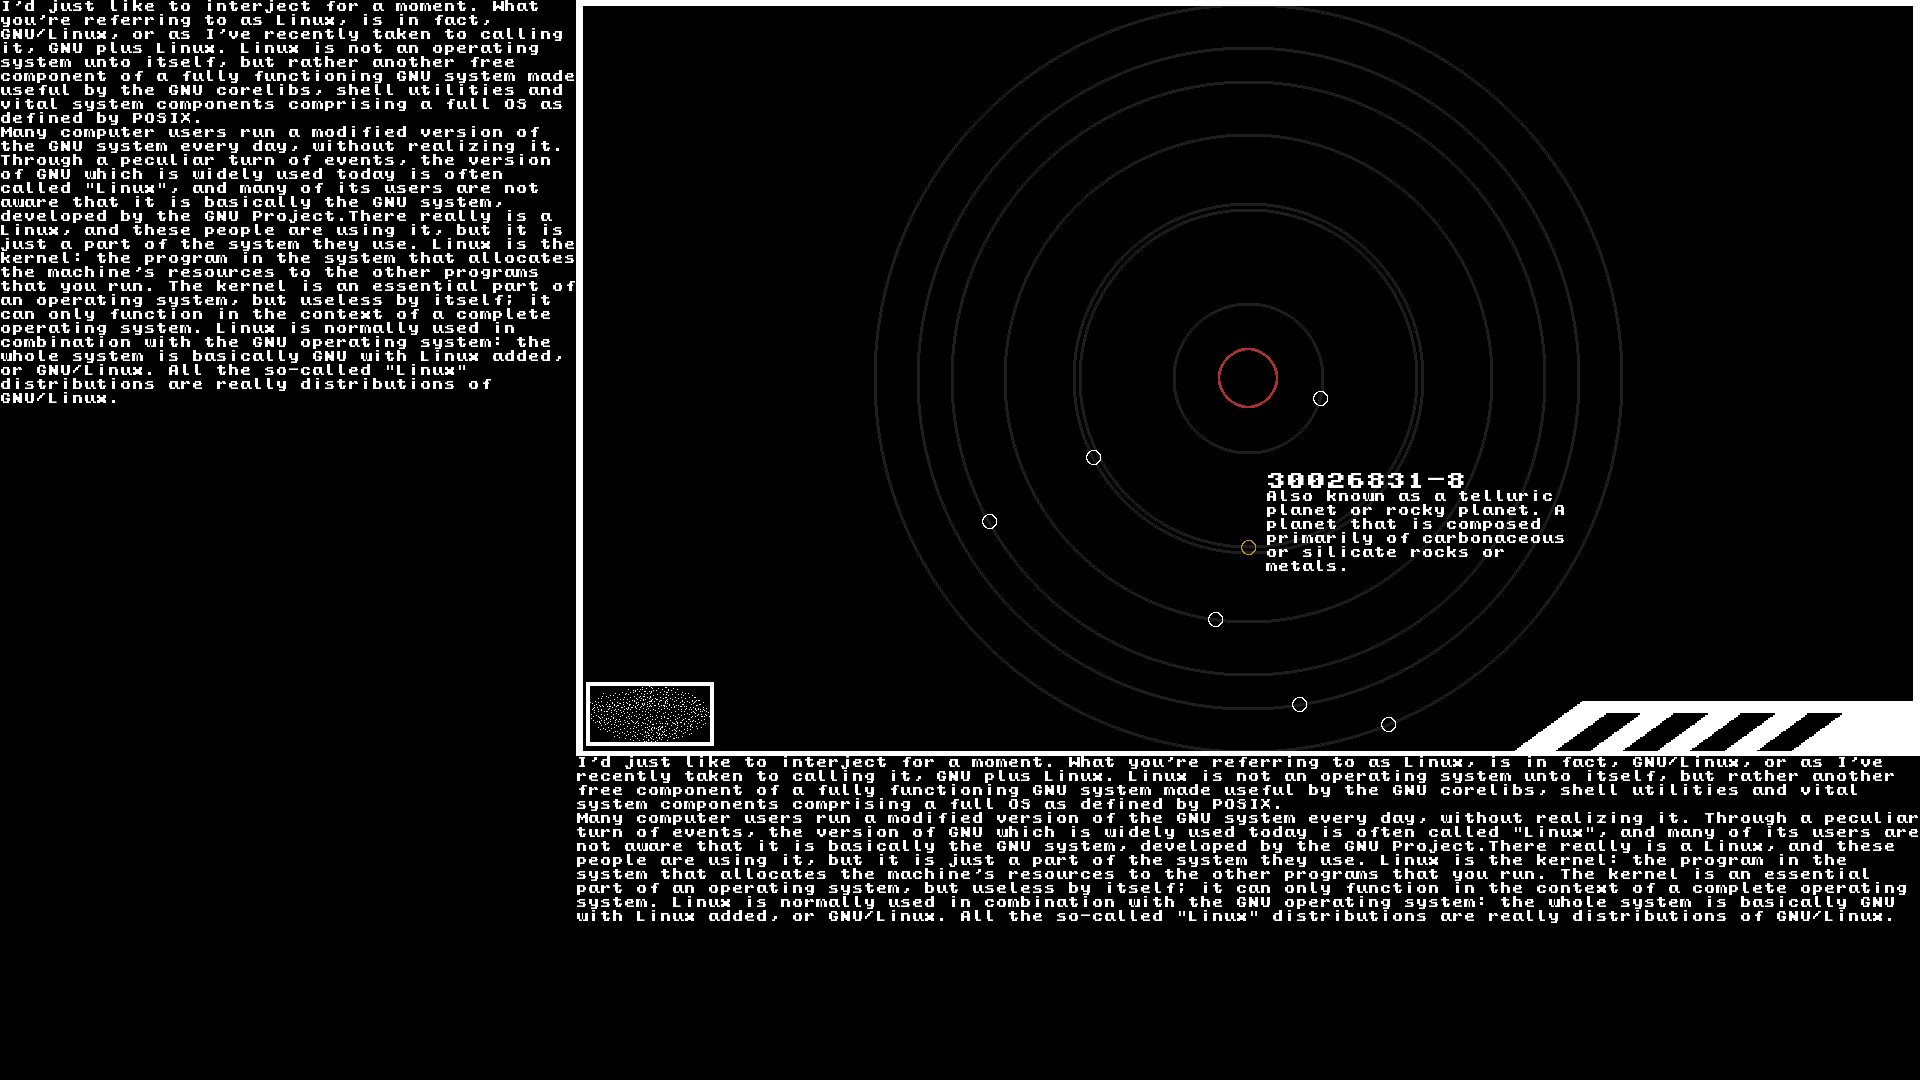
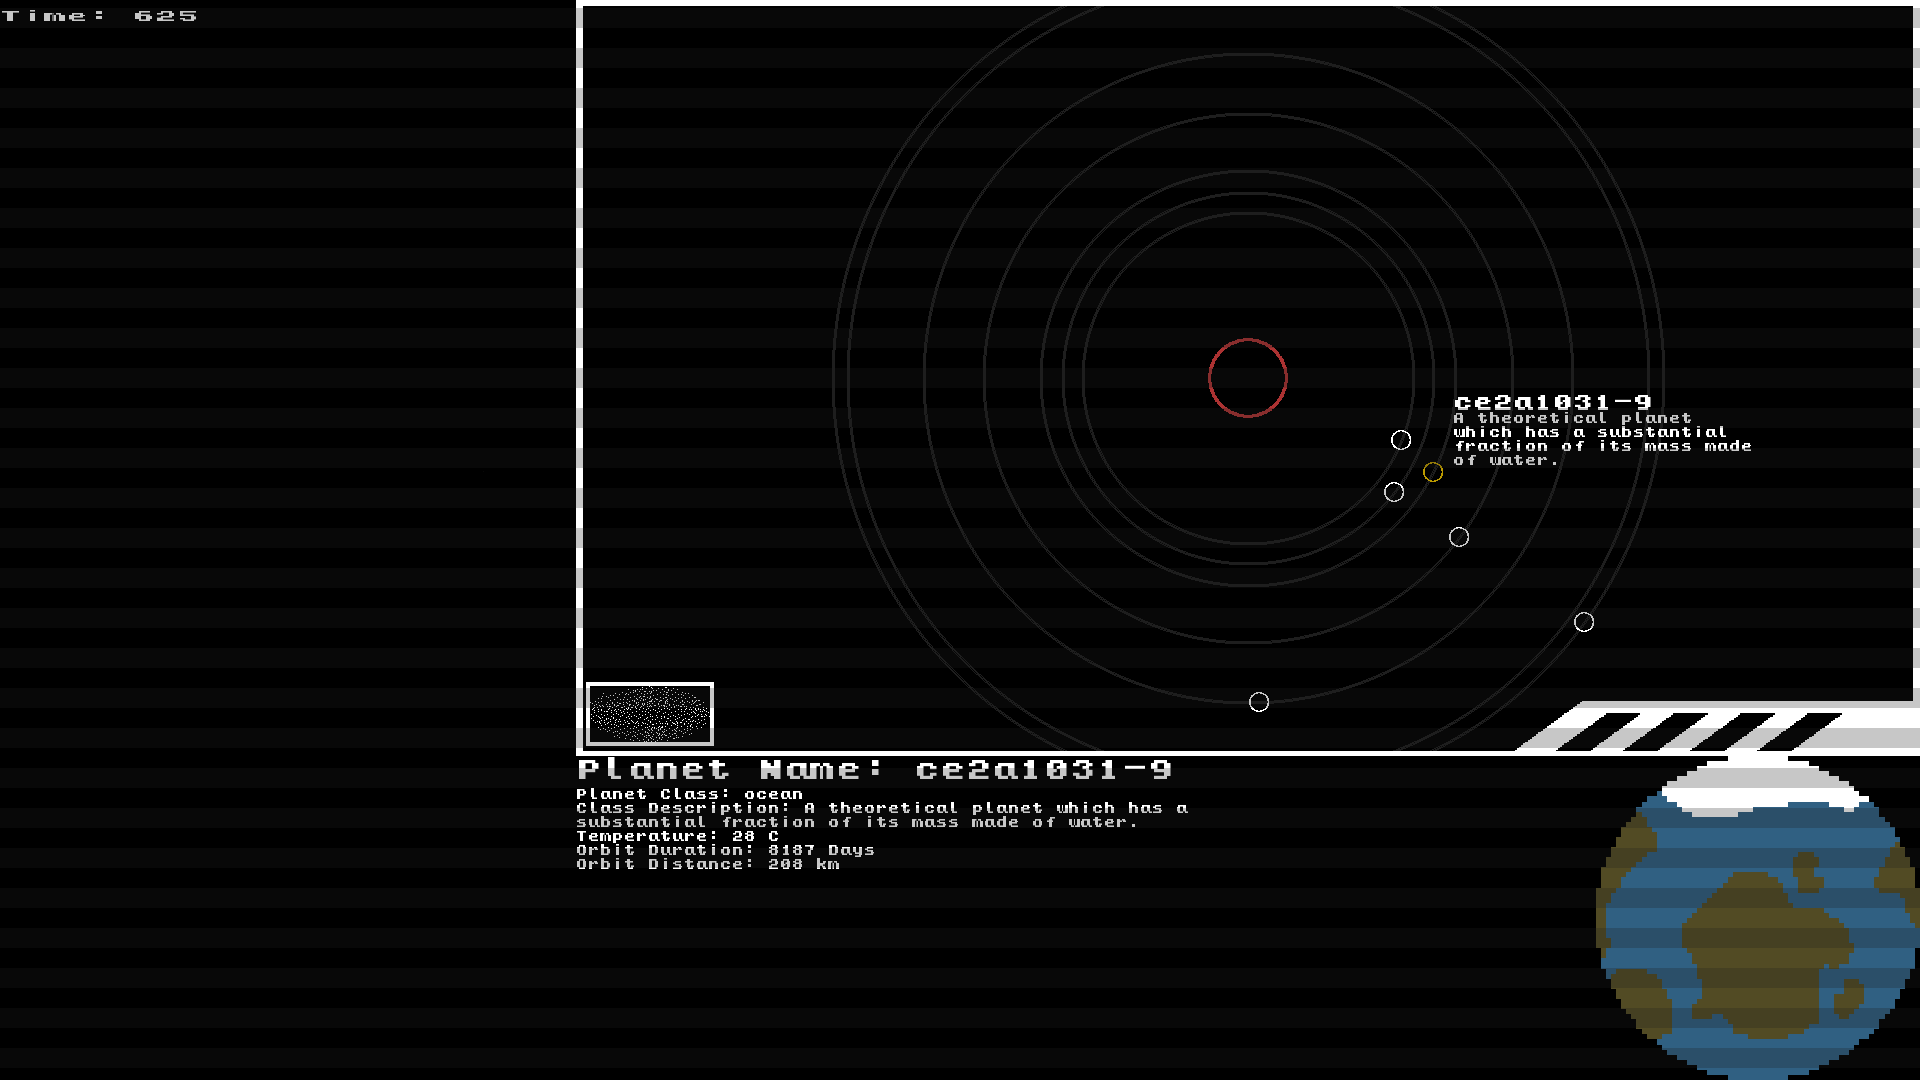
adds planet portrait to planet info screen

diff --git a/ui/include/ui/entities.h b/ui/include/ui/entities.h
@@ -224,6 +224,7 @@ private:
   TextLabelUI::Ptr m_planet_name_label;
   TextLabelUI::Ptr m_nothing_selected_label;
   TextBoxUI::Ptr m_info_box;
+  TextureComponent::Ptr m_planet_portrait;
   std::string m_text;
   Planet::Ptr m_current_planet;
   void generateText();
@@ -235,12 +236,16 @@ public:
 
     m_planet_name_label = std::make_shared<TextLabelUI>();
     m_info_box          = std::make_shared<TextBoxUI>();
+    m_planet_portrait   = std::make_shared<TextureComponent>("planet_portrait");
     m_planet_name_label->setAlive(false);
     m_info_box->setAlive(false);
+    m_planet_portrait->setAlive(false);
+
 
     m_components.push_back(m_planet_name_label);
     m_components.push_back(m_nothing_selected_label);
     m_components.push_back(m_info_box);
+    m_components.push_back(m_planet_portrait);
   }
   void update() override;
   bool handleEvent(SDL_Event* e) override { return false; }

diff --git a/kardeshev/src/main.cpp b/kardeshev/src/main.cpp
@@ -56,9 +56,9 @@ int main()
   main_window->init();
   kardeshev::UI::game = game;
 
-  // kardeshev::UI::assets->addFont(
-  //   kardeshev::Font::DEFAULT_FONT, "assets/aerial.ttf", 12, 26, 52);
   kardeshev::UI::assets->addFont(kardeshev::Font::DEFAULT_FONT, "assets/kongtext.ttf", 12, 26, 52);
+  kardeshev::UI::assets->addTexture(
+    "planet_portrait", "assets/test_planet.png", 128, 128, 3);
   kardeshev::UI::assets->addTexture(
     kardeshev::PlanetEntity::PLANET_SPRITE, "assets/planet_simple.png", 128, 128, 3);
   kardeshev::UI::assets->addTexture(

diff --git a/ui/src/entities.cpp b/ui/src/entities.cpp
@@ -314,6 +314,13 @@ void PlanetInfoEntity::update() {
     m_info_box->setDst(info_dst);
     m_info_box->setAlive(true);
 
+    SDL_Rect portrait_dst;
+    portrait_dst.w = portrait_dst.h = std::min(size.w / 2, size.h);
+    portrait_dst.x = size.w - portrait_dst.w;
+    portrait_dst.y = 0;
+    m_planet_portrait->setDst(portrait_dst);
+    m_planet_portrait->setAlive(true);
+
     m_nothing_selected_label->setAlive(false);
   } else {
     m_planet_name_label->setAlive(false);
